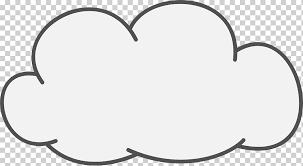
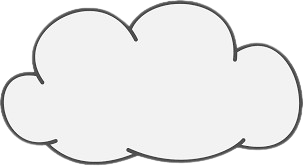
Add files via upload

Changed region(s): [[0.0, 0.0, 1.0, 1.0]]

diff --git a/HTML_DIA 9/index.html b/HTML_DIA 9/index.html
@@ -6,46 +6,75 @@
     <meta name="viewport" content="width=device-width, initial-scale=1.0">
     <title> Paisaje Animado </title>
     <link rel="stylesheet" href="index.css">
-    <style> 
-        .Animation-Nubes, .Animation-Gotas {
-          position: relative;
-          animation-name: nubes, gotas;
-          animation-duration: 2s;
-          animation-timing-function: linear;
-          animation-iteration-count: 1;
-          animation-direction: alternate;
+    <style>
+        .Animation-Nubes {
+            position: relative;
+            animation-name: nubes;
+            animation-duration: 4s;
+            animation-timing-function: linear;
+            animation-iteration-count: 1;
+            animation-direction: alternate;
         }
-        
+
         @keyframes nubes {
-          0%  {background-color: rgb(255, 255, 255); left:1400px; top: 0px;}
-          100% {background-color:rgb(252, 252, 252); left:0px; top:0px;}
+            0% {
+                background-image: url(media/imagen.png);
+                left: 1400px;
+                top: 0px;
+            }
+
+            100% {
+                background-image: url(media/imagen.png);
+                left: 0px;
+                top: 0px;
+            }
         }
-        </style>
+
+        .Animation-Gotas {
+            width: 100px;
+            height: 100px;
+            background-image: url(media/imagen.png);
+            position: relative;
+            animation-name: gotas;
+            animation-duration: 5s;
+        }
+
+        @keyframes gotas {
+            0% {
+                background-image: url(media/imagen.png);
+                left: 0px;
+                top: -8000px;
+            }
+
+            100% {
+                background-image: url(media/imagen.png);
+                left: 0px;
+                top: 0px;
+            }
+        }
+    </style>
 </head>
+
 <body>
     <div class="Container">
         <div class="Animation-Nubes">
             <div class="Nube">
-                <img src="media/nubes.png" alt="Nube" 
-                style="width: 300px; height: 50px;">
+                <img src="media/nubes.png" alt="Nube" style="width: 700px; height: 100px;">
             </div>
         </div>
         <div class="Animation-Sol">
             <div class="sol">
-                <img src="media/sol.png" alt="sol" 
-                style="width: 100px; height: 100px;">
+                <img src="media/sol.png" alt="sol" style="width: 300px; height: 200px;">
             </div>
         </div>
         <div class="Animation-Gotas">
             <div class="gotas">
-                <img src="media/Gotas.png" alt="gotas" 
-                style="width: 250px; height: 100px;">
+                <img src="media/Gotas.png" alt="gotas" style="width: 500px; height: 300px;">
             </div>
         </div>
         <div class="Animation-Flor">
             <div class="flor">
-                <img src="media/Flor.jpg" alt="flor" 
-                style="width: 150px; height: 150px;">
+                <img src="media/Flor.png" alt="flor" style="width: 300px; height: 300px;">
             </div>
         </div>
     </div>

diff --git a/HTML_DIA 9/index.css b/HTML_DIA 9/index.css
@@ -15,28 +15,24 @@ body {
 
 .Nube {
     position: relative;
-    left: 90vh;
-    top: 6vw;
-    mix-blend-mode: multiply;
+    left: 400px;
+    top: 100px;
 }
 
 .sol {
     position: absolute;
-    left: 10vh;
-    top: 1vw;
-    mix-blend-mode:multiply;
+    left: 100px;
+    top: 30px;
 }
 
 .gotas {
     position: relative;
-    left: 95vh;
-    top: 7vw;
-    mix-blend-mode: multiply;
+    left: 550px;
+    top: 900px;
 }
 
 .flor {
-    position: absolute;
-    left: 100vh;
-    top: 32vw;
-    mix-blend-mode: multiply;
+    position: relative;
+    left: 600px;
+    top: 600px;
 }
